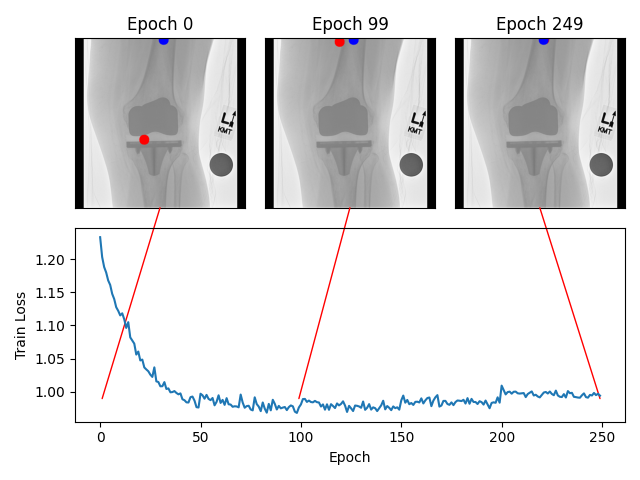
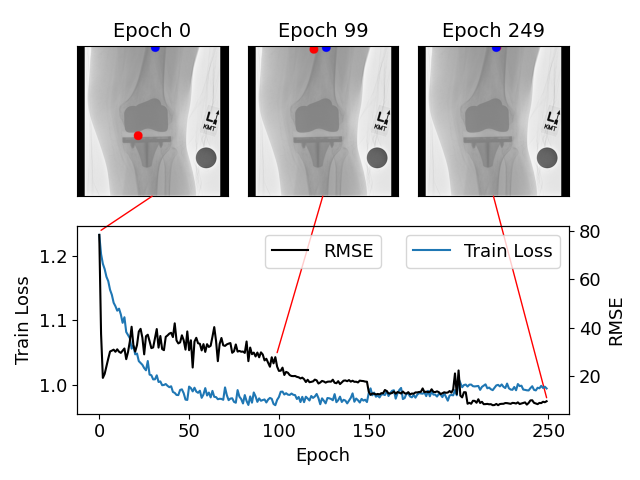
[Feat] Loss Graph & Prediction Plot #23

Changed region(s): [[0.0, 0.0312, 1.0, 0.9688], [0.8125, 0.625, 0.8438, 0.75], [0.4375, 0.5938, 0.4688, 0.6875]]

diff --git a/plot_data/loss_plot/loss_plot.py b/plot_data/loss_plot/loss_plot.py
@@ -7,6 +7,10 @@ Reference:
         https://stackoverflow.com/questions/17543359/drawing-lines-between-two-plots-in-matplotlib
     Sub plot set label:
         https://stackoverflow.com/questions/6963035/how-to-set-common-axes-labels-for-subplots
+    twinx to plot 2 graphs in 1 plot:
+        https://rfriend.tistory.com/689
+    subplot tick fontsize:
+        https://stackoverflow.com/questions/38369188/set-size-of-ticks-in-all-subplots
 """
 
 import argparse
@@ -15,35 +19,6 @@ import matplotlib.pyplot as plt
 from matplotlib.patches import ConnectionPatch
 
 from PIL import Image
-
-
-def convert_txt_to_list(txt_file):
-    rmse_list = [[0]*18 for _ in range(6)]
-
-    with open(f"./txt_files/{txt_file}", "r") as f:
-        for line in f:
-            data1 = list(line.split(','))
-    
-    for i in range(len(data1)):
-        rmse_value = data1[i].translate({ord('['): None})
-        rmse_value = rmse_value.translate({ord(']'): None})
-        rmse_list[i//18][i%18] = float(rmse_value)
-
-    return rmse_list
-
-
-def convert_list_to_dataframe(total_list, total_name):
-    data = []
-    for k in range(len(total_list)):
-        for i in range(len(total_list[k])):
-            for j in range(len(total_list[k][i])):
-                data.append([i, total_list[k][i][j], total_name[k]])
-
-    return pd.DataFrame(data, columns=["label", "value", "experiment"])
-
-
-def box_plot(df, name):
-    pass
 
 
 def main(args):
@@ -56,50 +31,57 @@ def main(args):
     rows = 2; cols = 3
 
     ax1 = fig.add_subplot(rows, cols, 1)
-    ax1.set_title('Epoch 0')
+    ax1.set_title('Epoch 0', fontsize=14)
     ax1.grid(False)
     ax1.set_xticks([])  ## To remove x grid
     ax1.set_yticks([])  ## To remove y grid
     ax1.imshow(image1)
 
     ax2 = fig.add_subplot(rows, cols, 2)
-    ax2.set_title('Epoch 99')
+    ax2.set_title('Epoch 99', fontsize=14)
     ax2.grid(False)
     ax2.set_xticks([])
     ax2.set_yticks([])
     ax2.imshow(image2)
 
     ax3 = fig.add_subplot(rows, cols, 3)
-    ax3.set_title('Epoch 249')
+    ax3.set_title('Epoch 249', fontsize=14)
     ax3.grid(False)
     ax3.set_xticks([])
     ax3.set_yticks([])
     ax3.imshow(image3)
     
     ##TODO: Convert .csv to line graph
-    df = pd.read_csv(f'./csv_files/{args.experiment}.csv')
+    df_train_loss = pd.read_csv(f'./csv_files/{args.experiment}_train_loss.csv')
     ax4 = fig.add_subplot(212)
-    ax4.set_xlabel('Epoch')
-    ax4.set_ylabel('Train Loss')
-    ax4.plot(df['Step'], df['Train Loss'])
+    ax4.set_xlabel('Epoch', fontsize=13)
+    ax4.set_ylabel('Train Loss', fontsize=13)
+    ax4.tick_params(axis='both', which='major', labelsize=13)
+    ax4.plot(df_train_loss['Step'], df_train_loss['Train Loss'])
+
+    df_rmse = pd.read_csv(f'./csv_files/{args.experiment}_rmse.csv')
+    ax5 = ax4.twinx() 
+    ax5.set_ylabel('RMSE', fontsize=13)
+    ax5.tick_params(axis='both', which='major', labelsize=13)
+    ax5.plot(df_rmse['Step'], df_rmse['Average RMSE'], color="black")
     
-    
-    plt.savefig('tmp.png') 
+    ax4.legend(['Train Loss'], loc='best', fontsize=13)
+    ax5.legend(['RMSE'], loc='upper center', fontsize=13)
 
     ##TODO: Draw vertical line
     fig.tight_layout()
 
-    xy1 = (1, 0.99)
+    xy1 = (1, 1.24)
     xy2 = (255, 511)
     con = ConnectionPatch(xyA=xy1, xyB=xy2, coordsA="data", coordsB="data", axesA=ax4, axesB=ax1, color="red")
     ax4.add_artist(con)
 
-    xy1 = (99, 0.99)
+    xy1 = (99, 1.05)
     xy2 = (255, 511)
     con = ConnectionPatch(xyA=xy1, xyB=xy2, coordsA="data", coordsB="data", axesA=ax4, axesB=ax2, color="red")
     ax4.add_artist(con)
 
-    xy1 = (249, 0.99)
+    xy1 = (249, 0.98)
     xy2 = (255, 511)
     con = ConnectionPatch(xyA=xy1, xyB=xy2, coordsA="data", coordsB="data", axesA=ax4, axesB=ax3, color="red")
     ax4.add_artist(con)
@@ -112,7 +94,7 @@ if __name__ == '__main__':
 
     parser.add_argument('--image1', type=str, default="epoch0_val0_pred_gt.png")
     parser.add_argument('--image2', type=str, default="epoch99_val0_pred_gt.png")
-    parser.add_argument('--image3', type=str, default="epoch299_val0_pred_gt.png")
+    parser.add_argument('--image3', type=str, default="epoch249_val0_pred_gt.png")
 
     parser.add_argument('--experiment', type=str, default="MIDL_D60-5_W_P_progressive_weighted_erosion_ver2_1e-4_50")
     parser.add_argument('--plot_name', type=str, default="2023_MIDL_Loss_Graph")
